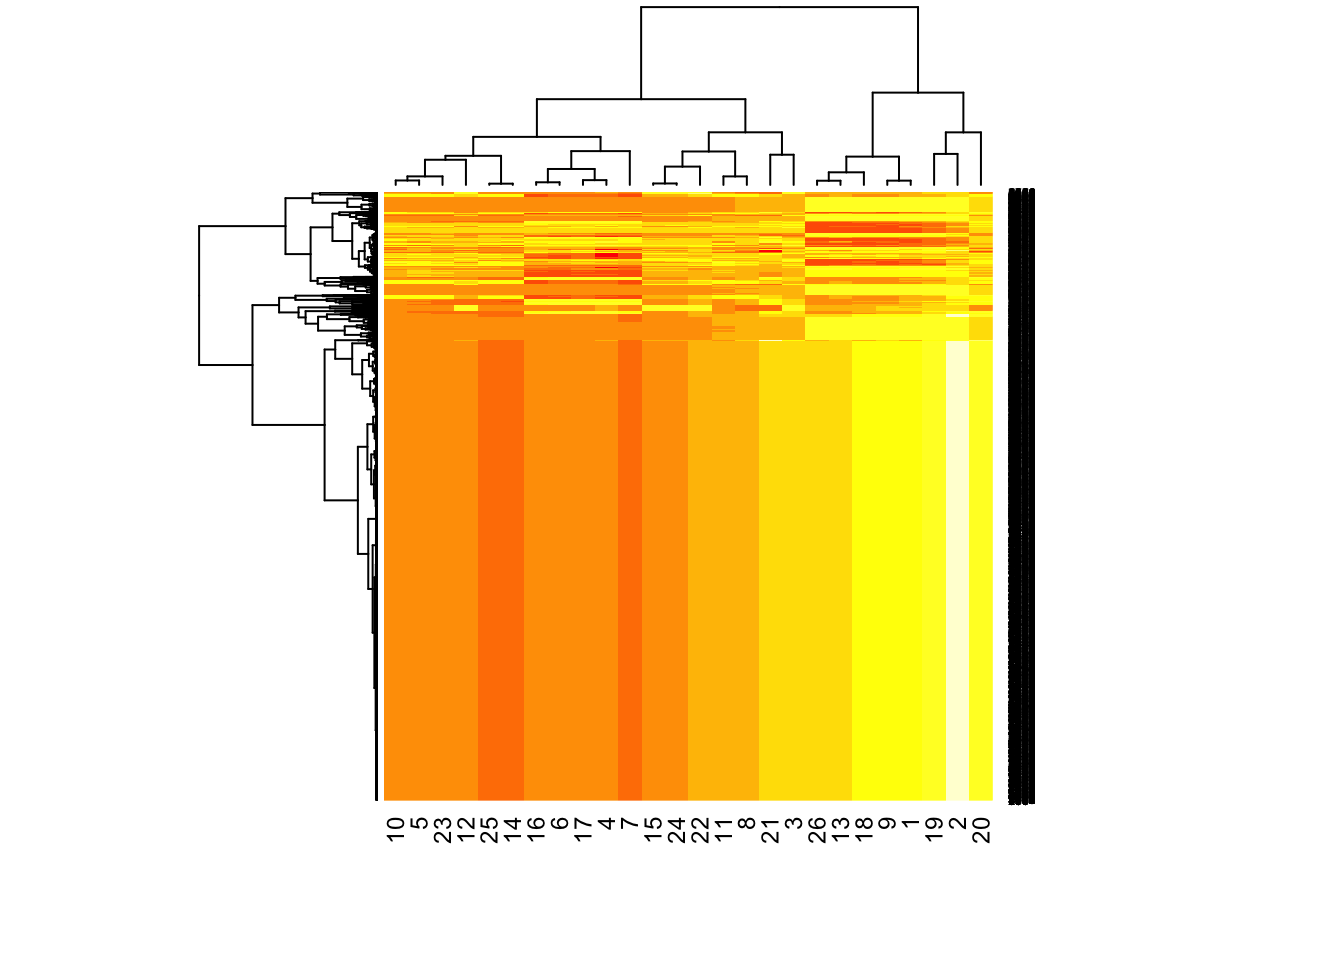
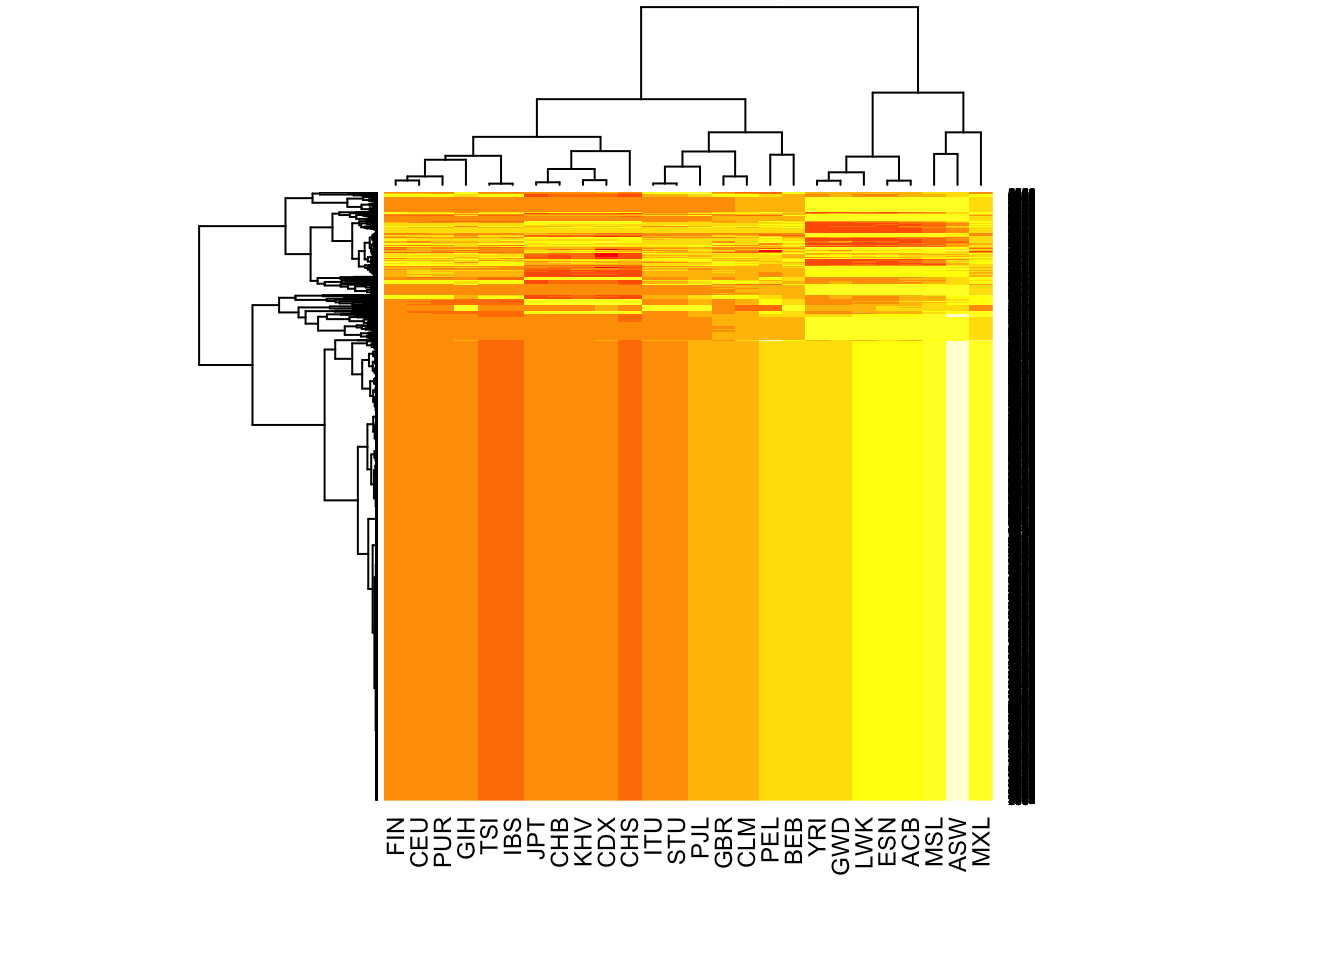
Build site.

Changed region(s): [[0.2812, 0.8438, 0.75, 0.9062]]

diff --git a/docs/All_chr22_8000.html b/docs/All_chr22_8000.html
@@ -313,10 +313,10 @@ div.tocify {
 shared across the workflowr files. -->
 <!-- Update knitr chunk options -->
 <!-- Insert the date the file was last updated -->
-<p><strong>Last updated:</strong> 2017-04-20</p>
+<p><strong>Last updated:</strong> 2017-04-21</p>
 <!-- Insert the code version (Git commit SHA1) if Git repository exists and R
  package git2r is installed -->
-<p><strong>Code version:</strong> 0de96bc</p>
+<p><strong>Code version:</strong> fec6abe</p>
 <!-- Add your analysis here -->
 <div id="ignore-this-part-this-is-code-i-used." class="section level2">
 <h2>ignore this part, this is code I used.</h2>
@@ -329,8 +329,9 @@ NB = as.matrix(N_mat)</code></pre>
 <pre class="r"><code>library(reshape2)
 melted_cormat_1 &lt;- melt(g$l %*% t(g$f), na.rm = TRUE)
 
-library(ggplot2)
-p1 = ggplot(data = melted_cormat_1, aes(Var2, Var1, fill = value))+
+library(ggplot2)</code></pre>
+<pre><code>Warning: package &#39;ggplot2&#39; was built under R version 3.3.2</code></pre>
+<pre class="r"><code>p1 = ggplot(data = melted_cormat_1, aes(Var2, Var1, fill = value))+
  geom_tile(color = &quot;white&quot;)+
  scale_fill_gradient2(low = &quot;blue&quot;, high = &quot;yellow&quot;, mid = &quot;green&quot;, 
    midpoint = 0, limit = c(-2,2), space = &quot;Lab&quot;) + labs(title = &quot;truth&quot;, y = &quot;sample&quot;, x = &quot;variable&quot;) +
@@ -425,7 +426,7 @@ plot(log(pve), main = &quot;log PVE&quot;)</code></pre>
 </div>
 <div id="heatmap-for-lft" class="section level2">
 <h2>Heatmap for <span class="math inline">\(LF^T\)</span></h2>
-<pre class="r"><code>heatmap( g$l %*% t(g$f))</code></pre>
+<pre class="r"><code>heatmap( g$l %*% t(g$f),labCol = colnames(Y_mat))</code></pre>
 <p><img src="figure/All_chr22_8000.Rmd/unnamed-chunk-8-1.png" width="672" style="display: block; margin: auto;" /></p>
 </div>
 <div id="session-information" class="section level2">
